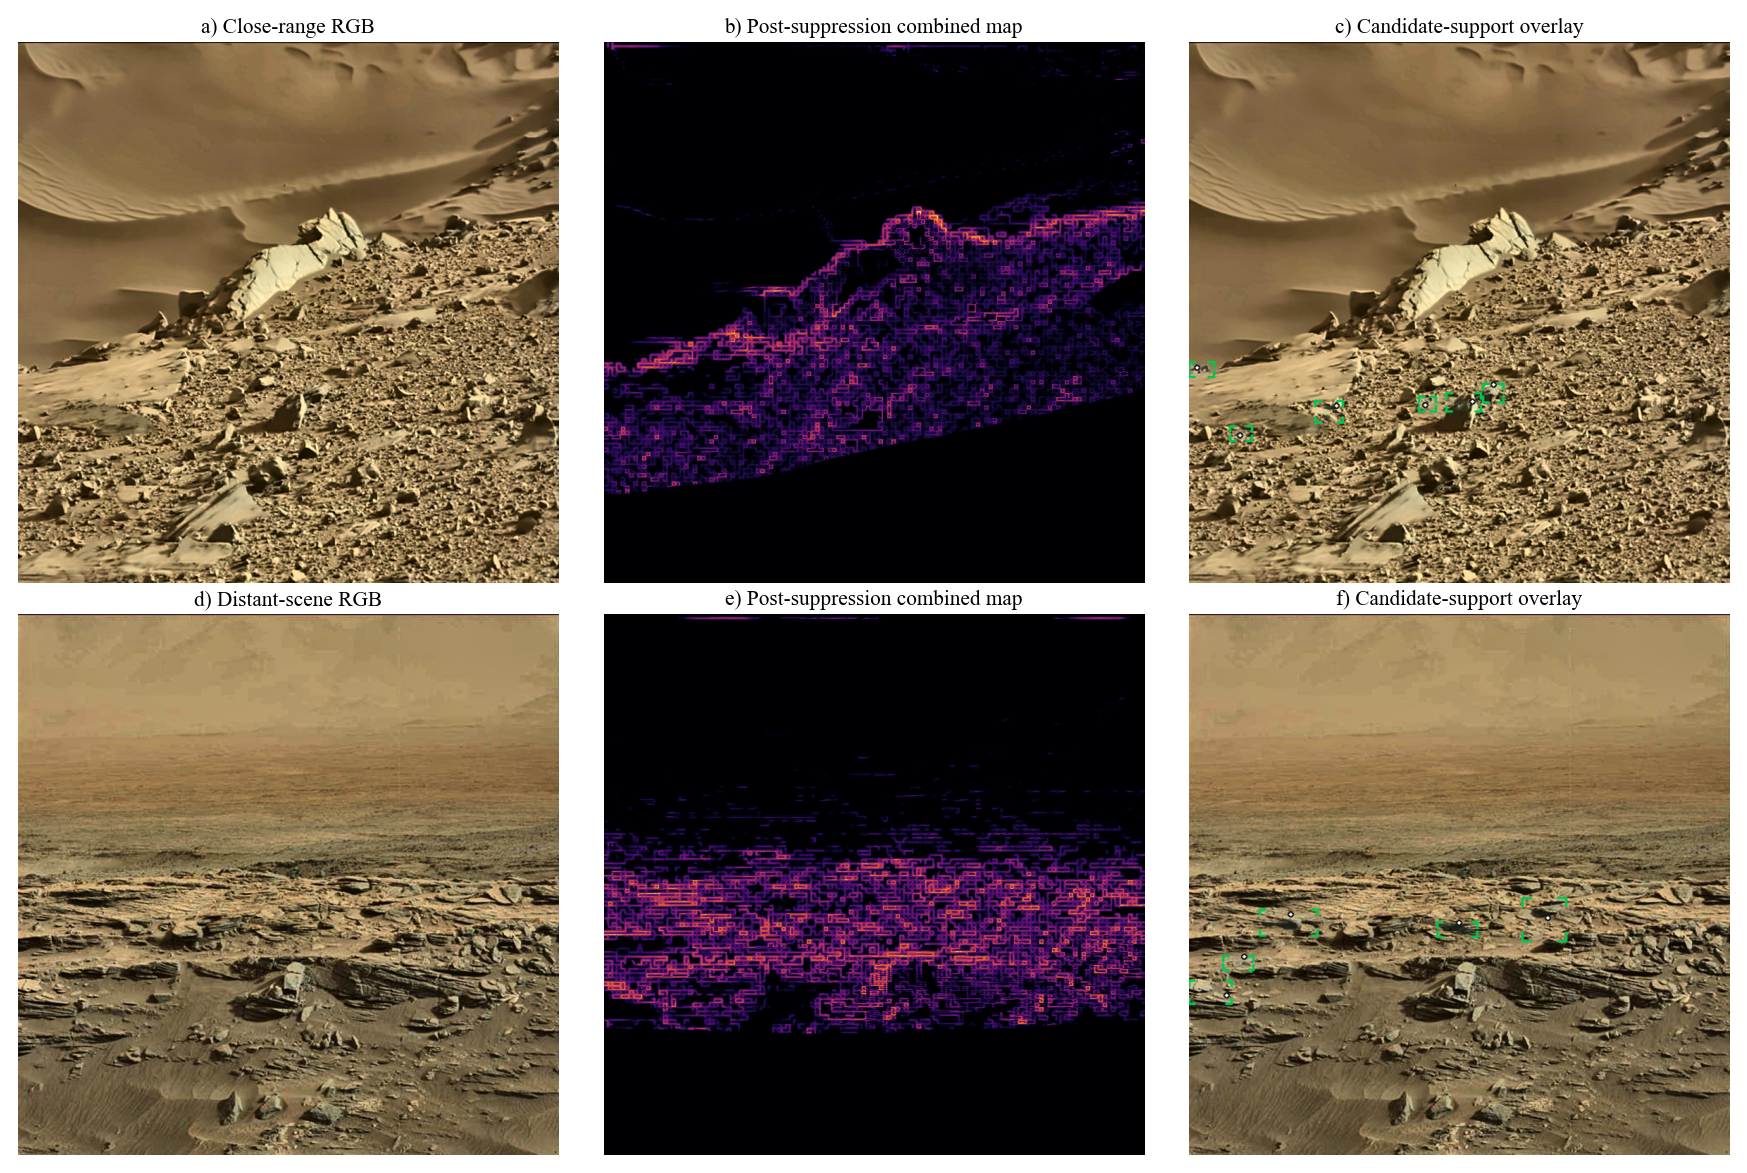
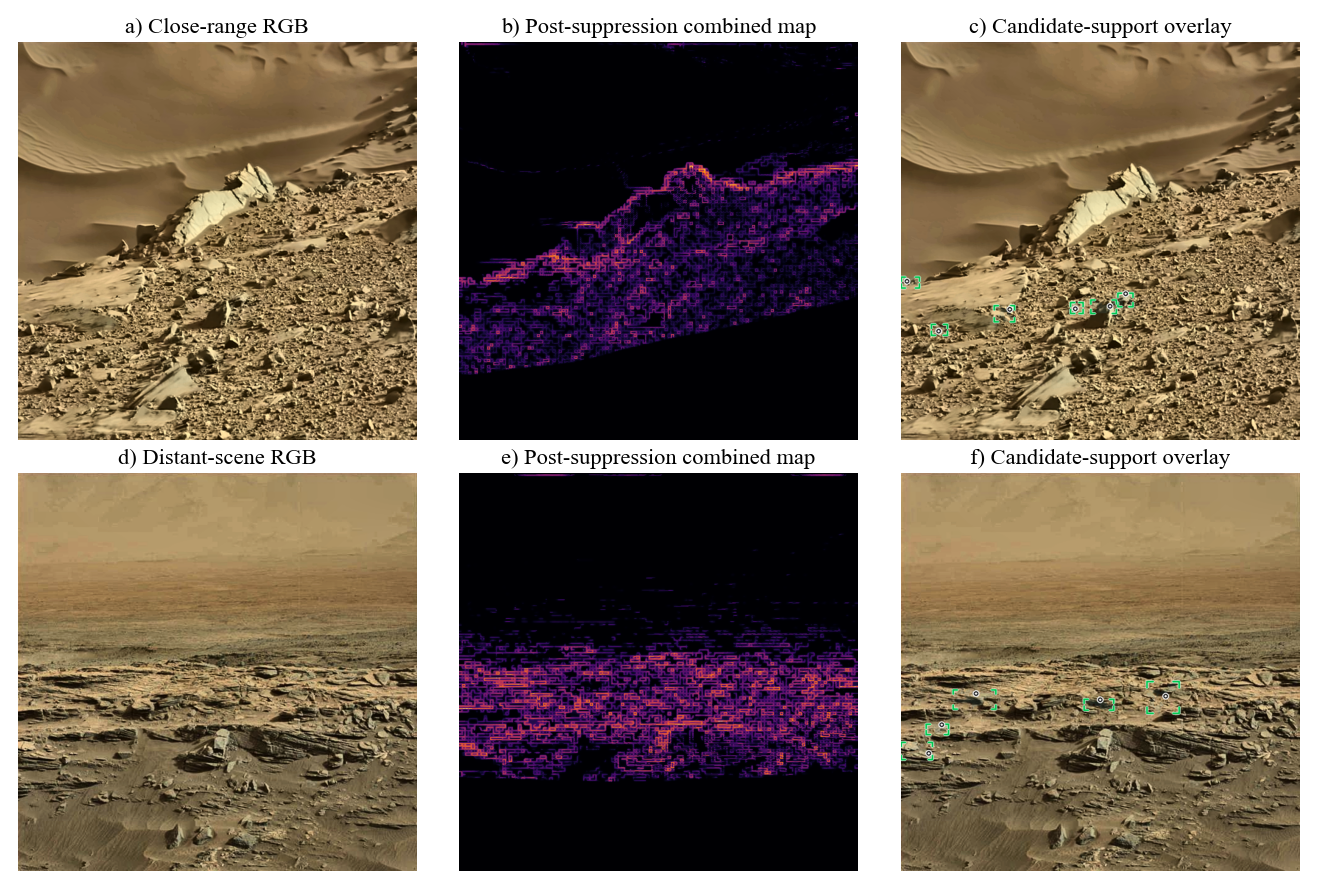
paper(iac2026): final visual flow and print-readability polish
Fix stretched headings, Table 1 sentence split, Table 3 caption, Fig. 2/3 placement, Fig. 4 print-scale titles, and grayscale overlay contrast without changing science.

Changed region(s): [[0.0, 0.0, 0.9962, 1.0]]

diff --git a/paper/iac2026/sections/experiments.tex b/paper/iac2026/sections/experiments.tex
@@ -5,6 +5,52 @@ This section distinguishes two evaluation tracks that are not directly interchan
 A qualitative processing example (Fig.~\ref{fig:qualitative}) illustrates the frozen
 image-score path only; it is not a third quantitative track.
 
+\subsection{Historical accepted-abstract track}
+The accepted IAC abstract reports AUROC~$0.894$, AUPRC~$0.847$, F1~$0.823$, baseline
+AUROC~$0.856$, and $28.1$\,FPS at $256\times256$ for a lightweight core.
+Table~\ref{tab:accepted-abstract} restates those values; lightweight FPS is reported only
+there.
+
+\subsection{Current reproducible evaluation}
+\texttt{independent\_eval\_v1} protocol definitions, annotation rules, and frozen execution settings are version-controlled
+with the implementation, including image-score aggregation, preprocessing profile, and
+checkpoint hashes.
+The primary image score is \texttt{max\_valid\_candidate\_after\_masks}.
+The held-out test partition was not opened: no test inference, no test metric, and no
+threshold retune on held-out images.
+Numeric supplementary results below use the human-reviewed annotation version only.
+Fig.~\ref{fig:qualitative} shows a qualitative non-test Mars scene selected before inference
+from an author-provided RGB candidate pool on the basis of scene structure and domain
+suitability, under the frozen image-score path.
+Fig.~\ref{fig:close-far} adds one close-range and one distant-scene illustration from a
+fixed author-provided pool; it is not a range-conditioned performance study.
+
+\subsection{Supplementary human-reviewed annotation}
+\texttt{independent\_eval\_v1\_1} records a model-blind repeat-author review of all 360
+included images under the same annotation guide.
+The original \texttt{independent\_eval\_v1} manifest remains immutable.
+Split assignments are unchanged; the test split remains unopened (human viewing only;
+no ARTPS inference).
+Scores were remapped onto the reviewed labels with no tuning and no inference rerun.
+This is not an independent second annotation.
+
+\subsection{Dataset and annotation semantics}
+One homogeneous Curiosity Mastcam-oriented image domain was selected from inventory metadata
+without model-score inspection.
+The frozen supplementary benchmark comprises $360$ included images with fixed split
+assignments of $252$ train / $54$ validation / $54$ test.
+All $360$ images received a repeat-author model-blind review; this is not independent double
+annotation.
+Test images could be viewed for annotation, but no ARTPS inference was performed on the
+held-out test split.
+A positive label denotes at least one real surface object or region that is visually distinct
+from its surroundings and scientifically worth follow-up under the annotation guide.
+A negative label denotes no distinct science-interest target under that guide.
+Rover hardware, border artefacts, telemetry overlays, compression or noise artefacts, a
+shadow boundary alone, or an exposure/specular artefact alone do not count as positive.
+These labels are not claimed to be equivalent to the historical accepted-abstract ground truth.
+
+\FloatBarrier
 \begin{table*}[t]
 \centering
 \small
@@ -31,51 +77,6 @@ Reported evidence & AUROC~$0.894$ / AUPRC~$0.847$ / F1~$0.823$; baseline AUROC~$
 \bottomrule
 \end{tabularx}
 \end{table*}
-
-\subsection{Historical accepted-abstract track}
-The accepted IAC abstract reports AUROC~$0.894$, AUPRC~$0.847$, F1~$0.823$, baseline
-AUROC~$0.856$, and $28.1$\,FPS at $256\times256$ for a lightweight core.
-Table~\ref{tab:accepted-abstract} restates those values; lightweight FPS is reported only
-there.
-
-\subsection{Current reproducible evaluation (\texttt{independent\_eval\_v1})}
-Protocol definitions, annotation rules, and frozen execution settings are version-controlled
-with the implementation, including image-score aggregation, preprocessing profile, and
-checkpoint hashes.
-The primary image score is \texttt{max\_valid\_candidate\_after\_masks}.
-The held-out test partition was not opened: no test inference, no test metric, and no
-threshold retune on held-out images.
-Numeric supplementary results below use the human-reviewed annotation version only.
-Fig.~\ref{fig:qualitative} shows a qualitative non-test Mars scene selected before inference
-from an author-provided RGB candidate pool on the basis of scene structure and domain
-suitability, under the frozen image-score path.
-Fig.~\ref{fig:close-far} adds one close-range and one distant-scene illustration from a
-fixed author-provided pool; it is not a range-conditioned performance study.
-
-\subsection{Supplementary human-reviewed annotation (\texttt{independent\_eval\_v1\_1})}
-\texttt{independent\_eval\_v1\_1} records a model-blind repeat-author review of all 360
-included images under the same annotation guide.
-The original \texttt{independent\_eval\_v1} manifest remains immutable.
-Split assignments are unchanged; the test split remains unopened (human viewing only;
-no ARTPS inference).
-Scores were remapped onto the reviewed labels with no tuning and no inference rerun.
-This is not an independent second annotation.
-
-\subsection{Dataset and annotation semantics}
-One homogeneous Curiosity Mastcam-oriented image domain was selected from inventory metadata
-without model-score inspection.
-The frozen supplementary benchmark comprises $360$ included images with fixed split
-assignments of $252$ train / $54$ validation / $54$ test.
-All $360$ images received a repeat-author model-blind review; this is not independent double
-annotation.
-Test images could be viewed for annotation, but no ARTPS inference was performed on the
-held-out test split.
-A positive label denotes at least one real surface object or region that is visually distinct
-from its surroundings and scientifically worth follow-up under the annotation guide.
-A negative label denotes no distinct science-interest target under that guide.
-Rover hardware, border artefacts, telemetry overlays, compression or noise artefacts, a
-shadow boundary alone, or an exposure/specular artefact alone do not count as positive.
-These labels are not claimed to be equivalent to the historical accepted-abstract ground truth.
 
 \subsection{Baseline scope}
 The PaDiM/PatchCore baseline AUROC~$0.856$ belongs to the historical accepted-IAC track~\citep{defard2020padim,roth2022patchcore}.

diff --git a/paper/iac2026/sections/methods.tex b/paper/iac2026/sections/methods.tex
@@ -69,6 +69,23 @@ Depth supports apparent size--distance policy and spatial structuring of candida
 feeds the depth-edge cue used in frozen multi-cue fusion.
 Fig.~\ref{fig:qualitative}(c) shows only this image-relative near/far field.
 
+\begin{figure*}[!t]
+\centering
+\includegraphics[width=\textwidth]{figures/fig_qualitative_artps.png}
+\caption{Qualitative ARTPS processing example from a non-test Mars scene selected before
+inference from an author-provided RGB candidate pool on the basis of scene structure and
+domain suitability.
+Panels show the RGB input, the post-suppression combined anomaly map, monocular image-relative
+depth, and the candidate-support overlay produced by the frozen image-score path.
+Corner brackets denote the approximate candidate ROI.
+Where proposal support geometry is available, the translucent footprint indicates the
+image-region evidence associated with the candidate; it is not a pixel-level
+segmentation or ground-truth object boundary.
+The depth visualization is relative and non-metric.
+The example is illustrative and is not used as an additional quantitative benchmark.}
+\label{fig:qualitative}
+\end{figure*}
+
 \subsection{Entropy-weighted dynamic fusion}
 Cue reliability can vary across illumination and terrain.
 The ARTPS specification defines an entropy-weighted fusion rule: for normalized cue maps
@@ -125,6 +142,22 @@ curiosity, but it is not a term in the fused map.
 Display scaling in the figure is independent of inference percentile normalization and does
 not constitute a new quantitative experiment.
 
+\begin{figure*}[!t]
+\centering
+\includegraphics[width=\textwidth]{figures/fig_cue_decomposition_artps.png}
+\caption{Cue decomposition of the frozen multi-cue score on the same non-test image as
+Fig.~\ref{fig:qualitative}.
+Panels show reconstruction residual, relative-depth edge, texture / local contrast, and the
+pre-suppression fused map after proximity mixing.
+Smaller depth-Laplacian and fine-detail terms also enter the mix but are not shown as
+separate panels.
+Each panel is independently min-max scaled for visualization; color intensities are therefore
+not numerically comparable across panels.
+The depth-derived cue is image-relative and non-metric.
+The figure is illustrative and is not used as an additional quantitative benchmark.}
+\label{fig:cue-decomp}
+\end{figure*}
+
 \subsection{Candidate localization}
 Fused anomaly responses are converted into discrete candidate regions via localization
 (thresholding / connected components / peak extraction---implementation detail retained in
@@ -163,39 +196,6 @@ example, not a curiosity-ranked downlink list.
 A candidate that survives suppression is still only a localization hypothesis: it is not a
 confirmed science target and is not automatically queued for downlink.
 Suppression is policy-driven and auditable; it is not a claim of perfect distractor rejection.
-
-\begin{figure*}[!t]
-\centering
-\includegraphics[width=\textwidth]{figures/fig_qualitative_artps.png}
-\caption{Qualitative ARTPS processing example from a non-test Mars scene selected before
-inference from an author-provided RGB candidate pool on the basis of scene structure and
-domain suitability.
-Panels show the RGB input, the post-suppression combined anomaly map, monocular image-relative
-depth, and the candidate-support overlay produced by the frozen image-score path.
-Corner brackets denote the approximate candidate ROI.
-Where proposal support geometry is available, the translucent footprint indicates the
-image-region evidence associated with the candidate; it is not a pixel-level
-segmentation or ground-truth object boundary.
-The depth visualization is relative and non-metric.
-The example is illustrative and is not used as an additional quantitative benchmark.}
-\label{fig:qualitative}
-\end{figure*}
-
-\begin{figure*}[!t]
-\centering
-\includegraphics[width=\textwidth]{figures/fig_cue_decomposition_artps.png}
-\caption{Cue decomposition of the frozen multi-cue score on the same non-test image as
-Fig.~\ref{fig:qualitative}.
-Panels show reconstruction residual, relative-depth edge, texture / local contrast, and the
-pre-suppression fused map after proximity mixing.
-Smaller depth-Laplacian and fine-detail terms also enter the mix but are not shown as
-separate panels.
-Each panel is independently min-max scaled for visualization; color intensities are therefore
-not numerically comparable across panels.
-The depth-derived cue is image-relative and non-metric.
-The figure is illustrative and is not used as an additional quantitative benchmark.}
-\label{fig:cue-decomp}
-\end{figure*}
 
 \subsection{Frozen candidate and image score}
 After localization and validity gates, each remaining candidate \(r\) receives a frozen score

diff --git a/tests/iac2026/test_v1_1_manuscript_integration.py b/tests/iac2026/test_v1_1_manuscript_integration.py
@@ -27,6 +27,8 @@ def test_iac2026_template_conformance_formatting():
     assert "newtxtext" in sty and "newtxmath" in sty
     assert "mathptmx" not in sty
     assert r"name=Fig." in sty
+    assert r"\raggedright" in sty
+    assert "justification=raggedright" in sty
     assert r"headrulewidth}{0pt}" in sty.replace(" ", "")
     assert r"footrulewidth}{0pt}" in sty.replace(" ", "")
     assert "2.25cm" in sty and "3.35cm" in sty and "0.8cm" in sty
@@ -63,6 +65,14 @@ def test_v1_1_supplementary_table_and_auroc_headline():
     results = RESULTS.read_text(encoding="utf-8")
     assert "tab:indep-v11" in results
     assert "Supplementary Human-Reviewed Evaluation" in results
+    v11_cap = results[results.find(r"\label{tab:indep-v11}") - 500 : results.find(r"\label{tab:indep-v11}")]
+    assert "Supplementary human-reviewed evaluation" in v11_cap
+    assert "independent_eval" not in v11_cap
+    exp = (REPO / "paper/iac2026/sections/experiments.tex").read_text(encoding="utf-8")
+    assert r"\subsection{Current reproducible evaluation}" in exp
+    assert r"\texttt{independent\_eval\_v1}" in exp.split(r"\subsection{Current reproducible evaluation}", 1)[1][:400]
+    assert r"\subsection{Current frozen evaluation protocol}" in results
+    assert r"\texttt{independent\_eval\_v1}" in results.split(r"\subsection{Current frozen evaluation protocol}", 1)[1][:400]
     assert "0.772" in results
     assert "0.956" in results
     assert "0.852" in results
@@ -421,8 +431,8 @@ def test_candidate_support_overlay_invariance_and_language():
     _assert_same_candidates(fig4["close"]["candidates"], fixture["fig4_close"]["candidates"])
     _assert_same_candidates(fig4["far"]["candidates"], fixture["fig4_far"]["candidates"])
     assert fig2.get("visualization_only") is True
-    assert fig2.get("overlay_visualization_version") == "candidate_support_v2"
-    assert fig4.get("overlay_visualization_version") == "candidate_support_v2"
+    assert fig2.get("overlay_visualization_version") == "candidate_support_v3"
+    assert fig4.get("overlay_visualization_version") == "candidate_support_v3"
     methods = (REPO / "paper/iac2026/sections/methods.tex").read_text(encoding="utf-8").lower()
     results = RESULTS.read_text(encoding="utf-8").lower()
     disc = DISCUSSION.read_text(encoding="utf-8").lower()

diff --git a/scripts/iac2026/_candidate_support_overlay.py b/scripts/iac2026/_candidate_support_overlay.py
@@ -5,12 +5,13 @@ import cv2
 import numpy as np
 
 BRACKET_COLOR = (0, 200, 80)
+HALO_COLOR = (255, 255, 255)
 FOOTPRINT_COLOR = (72, 138, 148)
 FOOTPRINT_ALPHA = 0.14
 ANCHOR_FILL = (255, 255, 255)
 ANCHOR_EDGE = (20, 20, 20)
 LABEL_MAX = 3
-OVERLAY_VISUALIZATION_VERSION = "candidate_support_v2"
+OVERLAY_VISUALIZATION_VERSION = "candidate_support_v3"
 
 
 def overlay_geometry_counts(detections: list[dict]) -> dict[str, int]:
@@ -139,20 +140,15 @@ def draw_candidate_support_overlay(
         elif det.get("poly"):
             _blend_footprint(out, _scaled_pts(det["poly"], sx, sy))
     for i, (det, x1, y1, x2, y2) in enumerate(scaled):
+        _draw_open_corners(out, x1, y1, x2, y2, HALO_COLOR, thickness=4)
         _draw_open_corners(out, x1, y1, x2, y2, BRACKET_COLOR, thickness=2)
         ax, ay = _anchor_map_xy(det, combined_map)
         px, py = int(round(ax * sx)), int(round(ay * sy))
+        cv2.circle(out, (px, py), 6, HALO_COLOR, -1, cv2.LINE_AA)
         cv2.circle(out, (px, py), 4, ANCHOR_EDGE, -1, cv2.LINE_AA)
         cv2.circle(out, (px, py), 2, ANCHOR_FILL, -1, cv2.LINE_AA)
         if n <= LABEL_MAX:
-            cv2.putText(
-                out,
-                f"T{i + 1}",
-                (x1, max(12, y1 - 4)),
-                cv2.FONT_HERSHEY_SIMPLEX,
-                0.35,
-                BRACKET_COLOR,
-                1,
-                cv2.LINE_AA,
-            )
+            org = (x1, max(12, y1 - 4))
+            cv2.putText(out, f"T{i + 1}", org, cv2.FONT_HERSHEY_SIMPLEX, 0.35, HALO_COLOR, 3, cv2.LINE_AA)
+            cv2.putText(out, f"T{i + 1}", org, cv2.FONT_HERSHEY_SIMPLEX, 0.35, BRACKET_COLOR, 1, cv2.LINE_AA)
     return out

diff --git a/paper/iac2026/sections/results.tex b/paper/iac2026/sections/results.tex
@@ -23,7 +23,7 @@ FPS @ $256\times256$ (lightweight core) & $28.1$ \\
 \end{tabular}
 \end{table}
 
-\subsection{Current frozen evaluation protocol (\texttt{independent\_eval\_v1})}
+\subsection{Current frozen evaluation protocol}
 The \texttt{independent\_eval\_v1} heuristic-label track remains a separate frozen protocol.
 The held-out test set remains unopened, so the current protocol is reported as validation-only.
 Numeric supplementary validation below uses the human-reviewed annotation version only.
@@ -39,7 +39,7 @@ AUROC is the principal ranking-oriented metric for this supplementary validation
 
 \begin{table}[t]
 \centering
-\caption{Supplementary human-reviewed evaluation (\texttt{independent\_eval\_v1\_1}).
+\caption{Supplementary human-reviewed evaluation.
 Not a reproduction of Table~\ref{tab:accepted-abstract} and not a final-test result.}
 \label{tab:indep-v11}
 \small
@@ -80,6 +80,7 @@ These examples are qualitative and are not a controlled near/far benchmark.
 None of these figures enters Table~\ref{tab:accepted-abstract} or Table~\ref{tab:indep-v11},
 opens the test split, or adds an AUROC, AUPRC, F1, or throughput number.
 
+\FloatBarrier
 \begin{figure*}[!t]
 \centering
 \includegraphics[width=\textwidth]{figures/fig_close_far_qualitative_artps.png}

diff --git a/tests/iac2026/test_candidate_support_overlay.py b/tests/iac2026/test_candidate_support_overlay.py
@@ -25,8 +25,8 @@ def _greenish(px: np.ndarray) -> bool:
     return int(px[1]) > 120 and int(px[1]) > int(px[0]) + 40 and int(px[1]) > int(px[2]) + 20
 
 
-def test_overlay_version_is_v2():
-    assert OVERLAY_VISUALIZATION_VERSION == "candidate_support_v2"
+def test_overlay_version_is_v3():
+    assert OVERLAY_VISUALIZATION_VERSION == "candidate_support_v3"
     assert FOOTPRINT_ALPHA <= 0.20
 
 
@@ -41,6 +41,8 @@ def test_open_corners_not_full_rectangle():
     corner = out[20, 20]
     assert _greenish(corner), corner.tolist()
     assert not _greenish(mid_top), mid_top.tolist()
+    gray = cv2.cvtColor(out, cv2.COLOR_RGB2GRAY)
+    assert abs(int(gray[20, 20]) - int(gray[35, 40])) >= 25
 
 
 def test_cc_footprint_tints_interior_not_bright_edge():

diff --git a/scripts/iac2026/generate_close_far_qualitative_figure.py b/scripts/iac2026/generate_close_far_qualitative_figure.py
@@ -315,8 +315,8 @@ def generate_figure() -> int:
     far_out = _run_frozen(cfg, bundle, far["abs_path"])
 
     OUT_PNG.parent.mkdir(parents=True, exist_ok=True)
-    apply_manuscript_serif()
-    fig, axes = plt.subplots(2, 3, figsize=(9.8, 6.4), dpi=FIG_DPI)
+    apply_manuscript_serif(title_pt=9.0)
+    fig, axes = plt.subplots(2, 3, figsize=(7.4, 4.83), dpi=FIG_DPI)
     panels = [
         (axes[0, 0], close_out["rgb"], "a) Close-range RGB", None),
         (axes[0, 1], close_out["combined_map"], "b) Post-suppression combined map", "inferno"),

diff --git a/paper/iac2026/IAC2026_TEMPLATE_CONFORMANCE_AUDIT.md b/paper/iac2026/IAC2026_TEMPLATE_CONFORMANCE_AUDIT.md
@@ -30,9 +30,9 @@ Preview pages / contact sheet: `paper/iac2026/_preview_pages/` (untracked).
 
 | Requirement | Official 2026 rule | 2025 LaTeX reference | Current ARTPS (baseline) | Action | Final status | Tag |
 | --- | --- | --- | --- | --- | --- | --- |
-| Paper size | US Letter | letterpaper | 612×792 | keep | PASS | OFFICIAL_2026 |
-| Margins | ~2.25 cm L/R, ~3.35 cm T/B | geometry in `IAC_style.cls` | 25 mm + `includehead`/`includefoot` | 2.25/3.35 cm, no includehead/foot unless collision | PASS (post-pass) | OFFICIAL_2026 |
-| Column gutter | ~0.8 cm | `columnsep` ~0.8 cm | 6 mm | `columnsep=0.8cm` | PASS (post-pass) | OFFICIAL_2026 |
+| Paper size | US Letter preferred; two-column except title/abstract | letterpaper | 612×792 | keep | PASS | OFFICIAL_2026 |
+| Margins | If A4: minimum 2.25 cm L/R and 3.35 cm T/B. US Letter: no explicit centimetre rule; leave adequate space | `IAC_style.cls` geometry (visual) | 2.25/3.35 cm on US Letter | Adopt A4 minimum as community/template visual reference on US Letter; do not treat as official US-Letter numbers | PASS | OFFICIAL_2026 + COMMUNITY_2025_REFERENCE |
+| Column gutter | Adequate separation between columns | `columnsep` ~0.8 cm in `IAC_style.cls` | 0.8 cm | Official: adequate gap. 0.8 cm adopted from community LaTeX visual reference | PASS | OFFICIAL_2026 + COMMUNITY_2025_REFERENCE |
 | Body font | Times 10 pt, embedded | `newtx` / Times-like | `mathptmx` 10 pt | `newtxtext`+`newtxmath`, T1 | PASS (post-pass) | OFFICIAL_2026 |
 | Paper ID | on manuscript | `\IACpapernumber` above title | footer only | ID `\normalsize` above title; keep footer | PASS (post-pass) | OFFICIAL_2026 |
 | Title | large bold, not oversized | `\large\bfseries` | `\Large\bfseries` | drop `\Large` → `\large\bfseries` | PASS (post-pass) | OFFICIAL_2026 |

diff --git a/paper/iac2026/SUBMISSION_FREEZE.md b/paper/iac2026/SUBMISSION_FREEZE.md
@@ -16,6 +16,8 @@
 
 `iac2026_template_conformance_complete: true`
 
+`final_visual_flow_polish_complete: true`
+
 This record is a repository freeze for camera-ready IAC manuscript readiness.
 It is **not** an official IAF submission receipt and **not** an accepted full-paper notice.
 
@@ -171,3 +173,15 @@ ISAIRAS 2014: not added (`UNVERIFIED_METADATA`).
 - `test_opened: false`; `final_test_authorized: false`
 - Paper code: `IAC-26,A3,IP,109,x109221` (title block + footer)
 - local verify: `pytest -q tests/iac2026` 232 passed; `_check_submission_ready.py` strict OK; `git diff --check` clean; overfull `\hbox` 0
+
+## Final visual-flow polish
+
+- `final_visual_flow_polish_complete: true`
+- Subsection headings ragged-right; 4.2/4.3/5.2 titles shortened; protocol IDs retained in first body sentence
+- Table 1 after complete 4.4 paragraph: no mid-sentence split; still `table*`
+- Table 3 caption ragged, no monospaced protocol ID; captions remain above
+- Fig. 2 after 3.3; Fig. 3 after 3.4; Fig. 4 after qualitative subsection (`\FloatBarrier`); order Fig. 1–4 unchanged
+- Fig. 4 canvas `(7.4, 4.83)` / 9 pt titles (~8 pt physical); overlay `candidate_support_v3` dual-stroke halo; Fig. 3 PNG unchanged
+- Pages: 11; PDF bytes: 3,446,057; US Letter; overfull 0
+- Metrics unchanged; `test_opened: false`; no new experiment
+- local verify: `pytest -q tests/iac2026` 232 passed; `_check_submission_ready.py` strict OK; `git diff --check` clean
